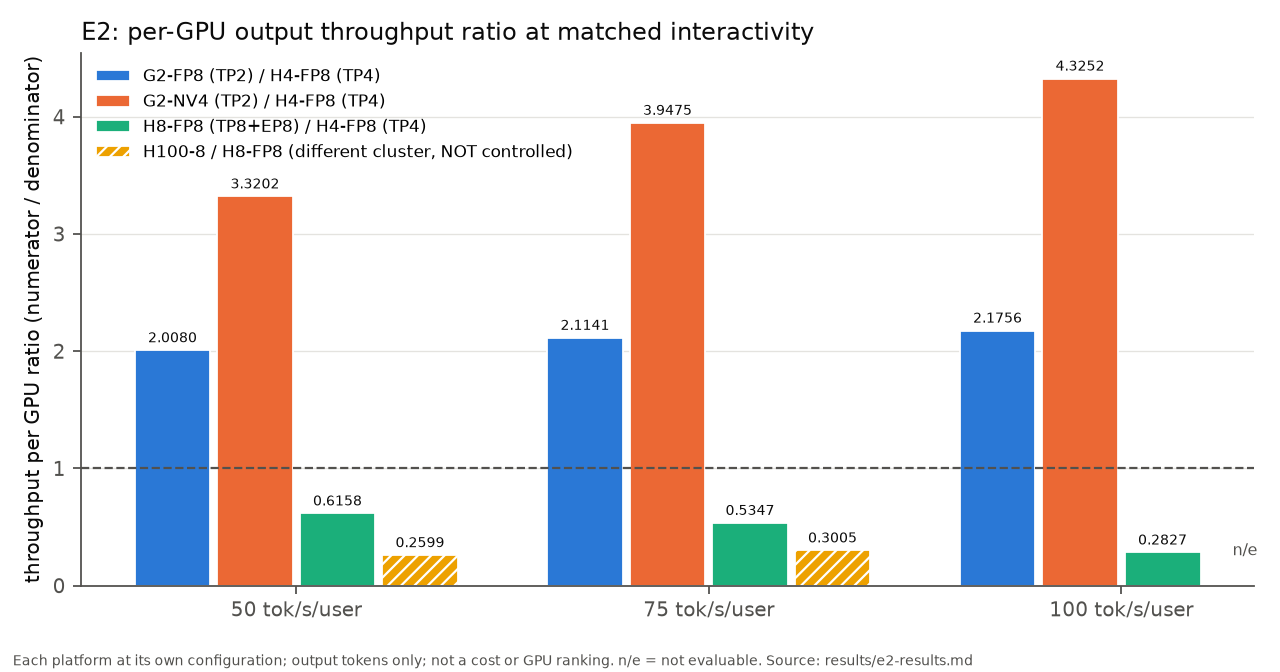
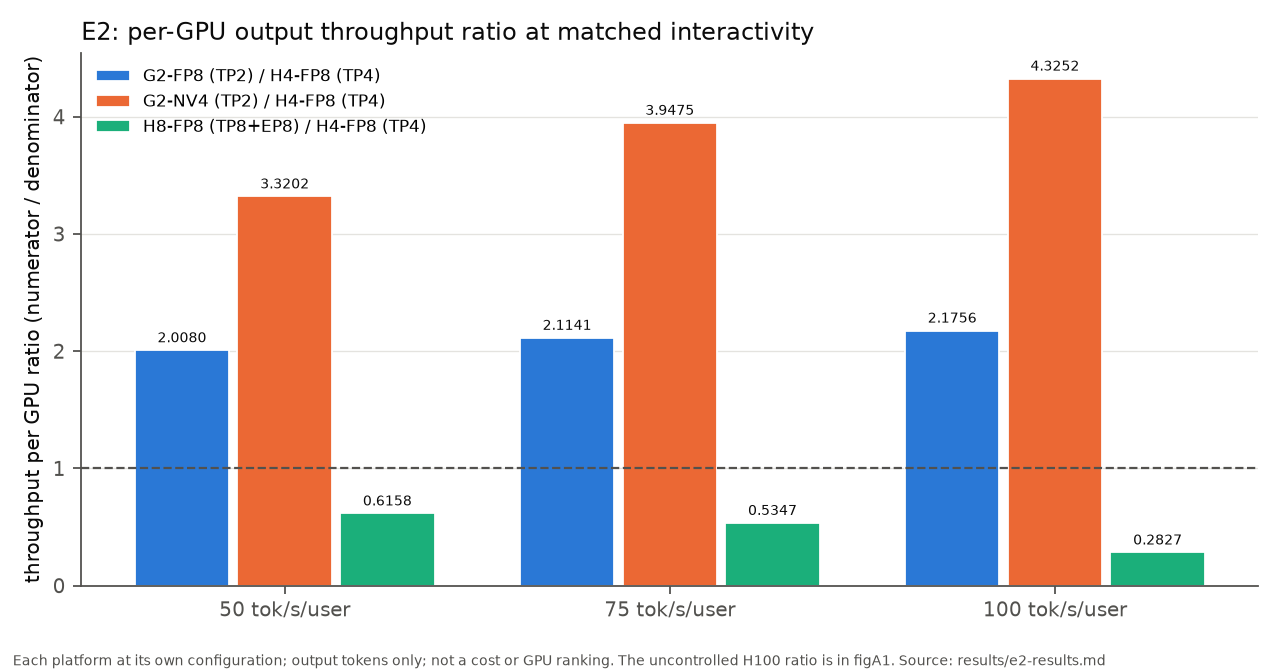
main-study figures and summary: regenerate figures, link the post-hoc analyses
fig2 N4 labels moved off the line; figA1 split out the uncontrolled H100
comparison. Root README points to the finished study.

diff --git a/main-study/figures/make_figures.py b/main-study/figures/make_figures.py
@@ -2,6 +2,8 @@
 
 Every value below is copied by hand from the cited results line; nothing is computed from raw data.
 Run: uv run --with matplotlib python main-study/figures/make_figures.py
+
+Deferred, not drawn: per-launch ratio dots on fig1, and a union / per-GPU-step panel on fig3.
 """
 
 from pathlib import Path
@@ -59,29 +61,52 @@ def grouped_bars(ax, groups, series, labels, colors, hatches=None, fmt="{:.4f}",
 
 
 def fig_e2():
-    # e2-results.md:27, :29, :32, :33
+    # e2-results.md:27, :29, :32
     ratios = {
         "G2-FP8 (TP2) / H4-FP8 (TP4)": [2.0080, 2.1141, 2.1756],
         "G2-NV4 (TP2) / H4-FP8 (TP4)": [3.3202, 3.9475, 4.3252],
         "H8-FP8 (TP8+EP8) / H4-FP8 (TP4)": [0.6158, 0.5347, 0.2827],
-        "H100-8 / H8-FP8 (different cluster, NOT controlled)": [0.2599, 0.3005, None],
     }
     fig, ax = plt.subplots(figsize=(8, 4.2))
-    grouped_bars(ax, [f"{t} tok/s/user" for t in TARGETS], list(ratios.values()), list(ratios.keys()),
-                 SERIES, hatches=[None, None, None, "////"])
+    grouped_bars(ax, [f"{t} tok/s/user" for t in TARGETS], list(ratios.values()), list(ratios.keys()), SERIES)
     ax.axhline(1.0, color=MUTED, linewidth=1, linestyle="--")
     ax.set_ylabel("throughput per GPU ratio (numerator / denominator)")
     ax.set_title("E2: per-GPU output throughput ratio at matched interactivity", loc="left", color=INK)
     ax.legend(frameon=False, fontsize=7.5, loc="upper left")
     fig.text(0.01, 0.01, "Each platform at its own configuration; output tokens only; not a cost or GPU ranking. "
-             "n/e = not evaluable. Source: results/e2-results.md", fontsize=6.5, color=MUTED)
+             "The uncontrolled H100 ratio is in figA1. Source: results/e2-results.md", fontsize=6.5, color=MUTED)
     fig.tight_layout(rect=(0, 0.04, 1, 1))
     fig.savefig(OUT / "fig1_e2_per_gpu_ratios.png")
     plt.close(fig)
 
 
+def fig_e2_h100_appendix():
+    # e2-results.md:33
+    ratios = {"H100-8-FP8 / H8-FP8 (both TP8+EP8)": [0.2599, 0.3005, None]}
+    fig, ax = plt.subplots(figsize=(5, 3.6))
+    grouped_bars(ax, [f"{t} tok/s/user" for t in TARGETS], list(ratios.values()), list(ratios.keys()),
+                 [SERIES[3]], hatches=["////"])
+    ax.axhline(1.0, color=MUTED, linewidth=1, linestyle="--")
+    ax.set_ylim(0, 1.1)
+    ax.set_ylabel("throughput per GPU ratio")
+    ax.set_title("Appendix: H100 vs H200, NOT a controlled comparison", loc="left", color=INK, fontsize=9)
+    ax.legend(frameon=False, fontsize=7, loc="upper left")
+    fig.text(0.01, 0.01, "Different cluster, driver (550 + CUDA-13 compatibility libraries) and container runtime.\n"
+             "n/e = not evaluable (H100 frontier ends at 80.81). Source: results/e2-results.md", fontsize=6.5,
+             color=MUTED)
+    fig.tight_layout(rect=(0, 0.08, 1, 1))
+    fig.savefig(OUT / "figA1_e2_h100_uncontrolled.png")
+    plt.close(fig)
+
+
 def fig_e3():
-    # e2-results.md:51 (G2-FP8); e3-results.md:36 (N4-FP8), :38 (R16-FP8)
+    # e2-results.md:51 (G2-FP8); e3-results.md:36 (N4-FP8), :38 (R16-FP8). The c of each frontier point is taken
+    # from the independent score's per-point tables (private SCORE_E2 §5, SCORE_E3 per-configuration tables).
+    concurrency = {
+        "G2-FP8, 2 GPUs (TP2)": [16, 8, 4, 1],
+        "N4-FP8, 4 GPUs (TP4+EP4)": [64, 32, 16, 8, 4, 1],
+        "R16-FP8, 16 GPUs (TP16+attn-DP16+EP16, round-robin)": [16, 8, 4, 1],
+    }
     frontiers = {
         "G2-FP8, 2 GPUs (TP2)": [(42.33, 272.39), (61.87, 186.04), (83.18, 129.34), (126.71, 60.99)],
         "N4-FP8, 4 GPUs (TP4+EP4)": [(26.11, 327.53), (39.30, 233.82), (57.66, 180.58), (77.14, 113.07),
@@ -96,9 +121,16 @@ def fig_e3():
         "R16-FP8 (4 nodes) / N4-FP8 (1 node)": [0.02028, 0.02781, None],
     }
     fig, (left, right) = plt.subplots(1, 2, figsize=(10, 4.2))
-    for color, (label, pts) in zip(SERIES, frontiers.items()):
+    # N4 labels go below-left, off its falling line.
+    label_offset = [((3, 4), "left"), ((-4, -10), "right"), ((3, 4), "left")]
+    for color, (offset, ha), (label, pts) in zip(SERIES, label_offset, frontiers.items()):
         xs, ys = zip(*pts)
         left.plot(xs, ys, "-o", color=color, linewidth=2, markersize=5, label=label)
+        for (x, y), c in zip(pts, concurrency[label]):
+            left.annotate(f"c={c}", (x, y), xytext=offset, textcoords="offset points", fontsize=6, color=color, ha=ha)
+    left.annotate("R16: c = 32 cut by the 1 h end time,\nc = 64 and 128 never started", (8.10, 7.16),
+                  xytext=(45, 14), fontsize=6.5, color=SERIES[2],
+                  arrowprops={"arrowstyle": "-", "color": SERIES[2], "linewidth": 0.6})
     left.set_yscale("log")
     left.set_xlabel("interactivity (tok/s/user)")
     left.set_ylabel("output throughput (tok/s/GPU, log)")
@@ -113,10 +145,11 @@ def fig_e3():
     right.set_title("E3: registered per-GPU ratios", loc="left", color=INK)
     right.set_ylim(0.01, 6)
     right.legend(frameon=False, fontsize=7, loc="upper left", ncol=1)
-    fig.text(0.01, 0.01, "N4 vs G2 also differ in parallelism and node pool: not a GPU-count scaling result. "
-             "R16 is one untuned configuration; E3 does not isolate the cause. n/e = not evaluable. "
-             "Sources: results/e2-results.md, e3-results.md", fontsize=6.5, color=MUTED)
-    fig.tight_layout(rect=(0, 0.04, 1, 1))
+    fig.text(0.01, 0.01, "Frontier points only: G2-FP8's c = 32 and 64 are dominated (KV-limited) and off its frontier. "
+             "N4 vs G2 also differ in parallelism and node pool: not a GPU-count scaling result.\n"
+             "R16 is one untuned configuration and its frontier covers only c ≤ 16; E3 does not isolate the cause. "
+             "n/e = not evaluable. Sources: results/e2-results.md, e3-results.md", fontsize=6.5, color=MUTED)
+    fig.tight_layout(rect=(0, 0.07, 1, 1))
     fig.savefig(OUT / "fig2_e3_scaling.png")
     plt.close(fig)
 
@@ -185,5 +218,6 @@ def fig_e4():
 
 if __name__ == "__main__":
     fig_e2()
+    fig_e2_h100_appendix()
     fig_e3()
     fig_e4()

diff --git a/README.md b/README.md
@@ -3,8 +3,9 @@
 Serving one large MoE model on Hopper and Grace-Blackwell under an agentic multi-turn workload:
 measurement, attribution, correctness.
 
-> Status: work in progress. Three case studies are written up from earlier, independently scored runs; the main study
-> is in progress.
+> Status: work in progress. The main study (E1–E4) ran on 2026-10-15/16 and is scored; start with
+> [`main-study/SUMMARY.md`](main-study/SUMMARY.md). Three case studies are written up from earlier, independently
+> scored runs.
 
 ## 1. Summary
 
@@ -12,10 +13,13 @@ _To be written by the author after the main study: the question, the hardware, o
 
 ## 2. Main study: same MoE, same agentic workload — H200 FP8 vs GB200 FP8 vs GB200 NVFP4
 
-- Setup: Qwen3-235B-A22B-Instruct-2507 (public FP8 and NVFP4 checkpoints), one SGLang commit, 2 GPUs per arm.
+- Setup: Qwen3-235B-A22B-Instruct-2507 (public FP8 and NVFP4 checkpoints), one SGLang commit; 2 GPUs per arm in E1,
+  each platform at its own configuration in E2–E4 (2 × GB200 TP2, 4 × H200 TP4, 8 × H200 TP8 + EP8, 4 and 16 × GB200).
 - Workload: replay of public agent trajectories with multi-turn prefix reuse.
 - Metrics: TTFT / TPOT / throughput at fixed concurrency, prefix-cache hit rate.
-- Results: _not yet run._
+- Results: E1–E4, each preregistered and independently scored: [`main-study/results/`](main-study/results/), one-page
+  overview in [`main-study/SUMMARY.md`](main-study/SUMMARY.md). Post-hoc CPU analyses of the same logs (not scored):
+  [`main-study/results/posthoc-log-analyses.md`](main-study/results/posthoc-log-analyses.md).
 - Attribution: where the time goes (nsys), and which kernels actually ran. Descriptive, not causal.
 - Correctness: fixed eval with paired flips, logprob agreement against a reference.
 - Limits: what these numbers do not show.
@@ -42,8 +46,12 @@ See [`docs/hardware.md`](docs/hardware.md).
 
 ## 6. Reproducing
 
-Main study: image digests, launch commands and the data download script will be added with the frozen
-preregistration; data itself is not stored here. Each case study has its own Reproduce section.
+Main study: image digests, checkpoint revisions and the replay input's sha256 are in
+[`main-study/prereg/e1-prereg.md`](main-study/prereg/e1-prereg.md) §2; the server flags, harness commit and job ids of
+every configuration are in [`main-study/README.md`](main-study/README.md#configurations-and-server-flags). The data
+(model weights, trajectories, raw logs) is not stored here, and the script that built `replay.jsonl` from the sampled
+ids (`harness/load_trajectories.py` inside the pinned image) runs from a private job wrapper that is not in this
+repository. Each case study has its own Reproduce section.
 
 ## 7. Prequel
 
@@ -61,11 +69,13 @@ Software, models and data used or referenced. Nothing below is redistributed in 
 | [TensorRT-LLM](https://github.com/NVIDIA/TensorRT-LLM) | 04 | see repository |
 | [Qwen/Qwen3-0.6B](https://huggingface.co/Qwen/Qwen3-0.6B) | 01 | Apache-2.0 |
 | [nvidia/Qwen3-30B-A3B-NVFP4](https://huggingface.co/nvidia/Qwen3-30B-A3B-NVFP4) | 03 | Apache-2.0 |
-| [Qwen/Qwen3-235B-A22B-Instruct-2507-FP8](https://huggingface.co/Qwen/Qwen3-235B-A22B-Instruct-2507-FP8) | main study (planned) | Apache-2.0 |
-| [nvidia/Qwen3-235B-A22B-Instruct-2507-NVFP4](https://huggingface.co/nvidia/Qwen3-235B-A22B-Instruct-2507-NVFP4) | main study (planned) | see model card |
+| [Qwen/Qwen3-235B-A22B-Instruct-2507-FP8](https://huggingface.co/Qwen/Qwen3-235B-A22B-Instruct-2507-FP8) | main study | Apache-2.0 |
+| [nvidia/Qwen3-235B-A22B-Instruct-2507-NVFP4](https://huggingface.co/nvidia/Qwen3-235B-A22B-Instruct-2507-NVFP4) | main study | see model card |
+| [Qwen/Qwen3-235B-A22B-Instruct-2507](https://huggingface.co/Qwen/Qwen3-235B-A22B-Instruct-2507) | main study (BF16 reference) | Apache-2.0 |
+| [Qwen/Qwen3-30B-A3B-FP8](https://huggingface.co/Qwen/Qwen3-30B-A3B-FP8) | main study (E4 profiler-overhead check) | Apache-2.0 |
 | [meta-llama/Llama-3.1-8B-Instruct](https://huggingface.co/meta-llama/Llama-3.1-8B-Instruct) | 04 | see model card |
 | [GSM8K](https://huggingface.co/datasets/openai/gsm8k) | 03, main study | MIT |
-| [nebius/SWE-rebench-openhands-trajectories](https://huggingface.co/datasets/nebius/SWE-rebench-openhands-trajectories) | main study (planned) | CC-BY-4.0; attribution to be completed when the data is used |
+| [nebius/SWE-rebench-openhands-trajectories](https://huggingface.co/datasets/nebius/SWE-rebench-openhands-trajectories) | main study | CC-BY-4.0; attribution text still to be completed (TODO, author) |
 
 ## 9. Notes on how this was made
 

diff --git a/main-study/SUMMARY.md b/main-study/SUMMARY.md
@@ -41,7 +41,13 @@ directions seen in pilot runs; only P5 was blind).
    co-occur with the low ratio, but the cause is not isolated. Not a 16-GPU, rack-scale or interconnect claim.
 
 Figures, from [`figures/make_figures.py`](figures/make_figures.py): [E2 ratios](figures/fig1_e2_per_gpu_ratios.png) ·
-[E3 configurations](figures/fig2_e3_scaling.png) · [E4 attribution and Q3](figures/fig3_e4_attribution_q3.png).
+[E3 configurations](figures/fig2_e3_scaling.png) · [E4 attribution and Q3](figures/fig3_e4_attribution_q3.png) ·
+appendix: [H100 ÷ H8, not controlled](figures/figA1_e2_h100_uncontrolled.png).
+
+Post-hoc CPU analyses of the same logs, not preregistered and not scored: E4 class times per GPU per decode step
+([`results/e4-results.md`](results/e4-results.md#post-hoc-not-scored-the-same-times-per-gpu-per-decode-step)), and
+prefill/decode coupling on R16 plus client- vs engine-side timing
+([`results/posthoc-log-analyses.md`](results/posthoc-log-analyses.md)).
 
 ## What this study does not show
 
